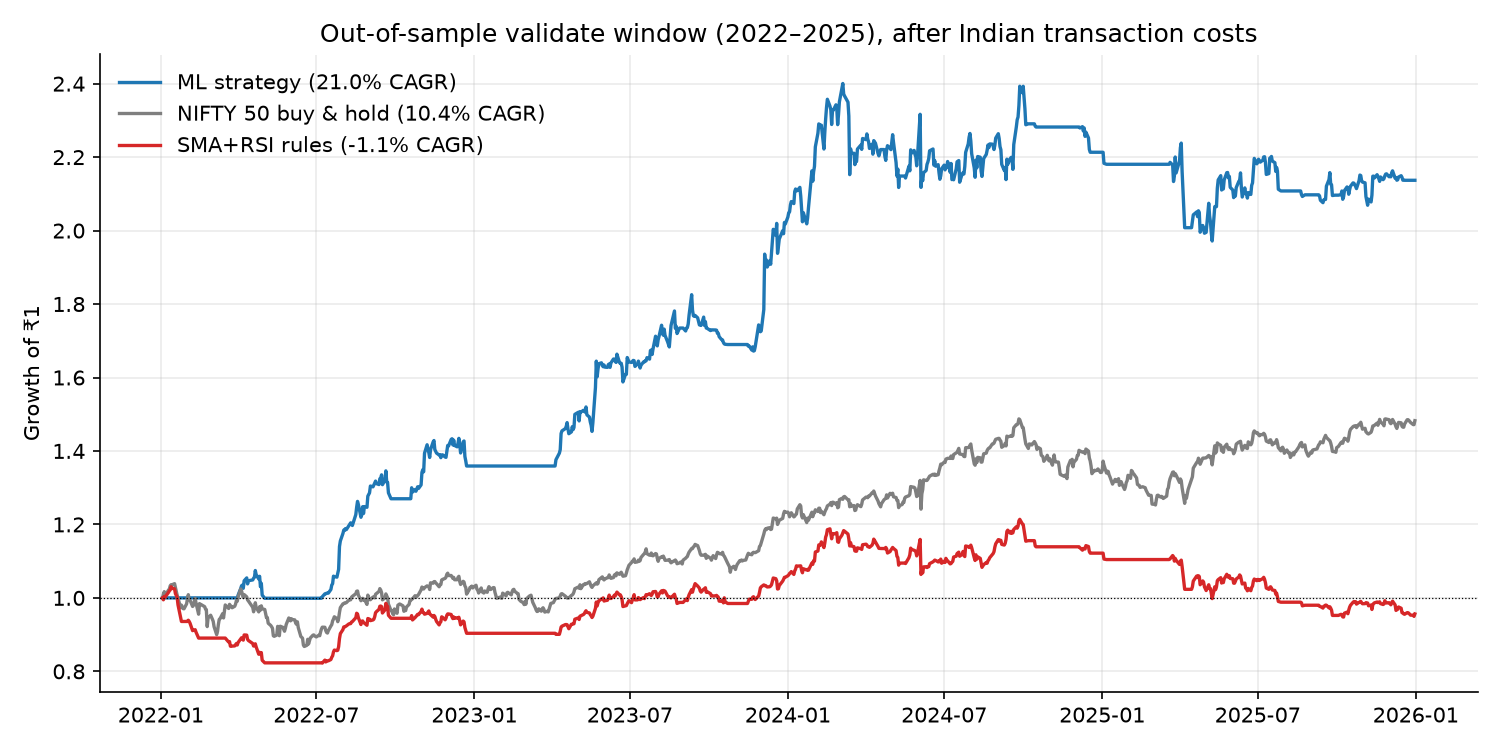
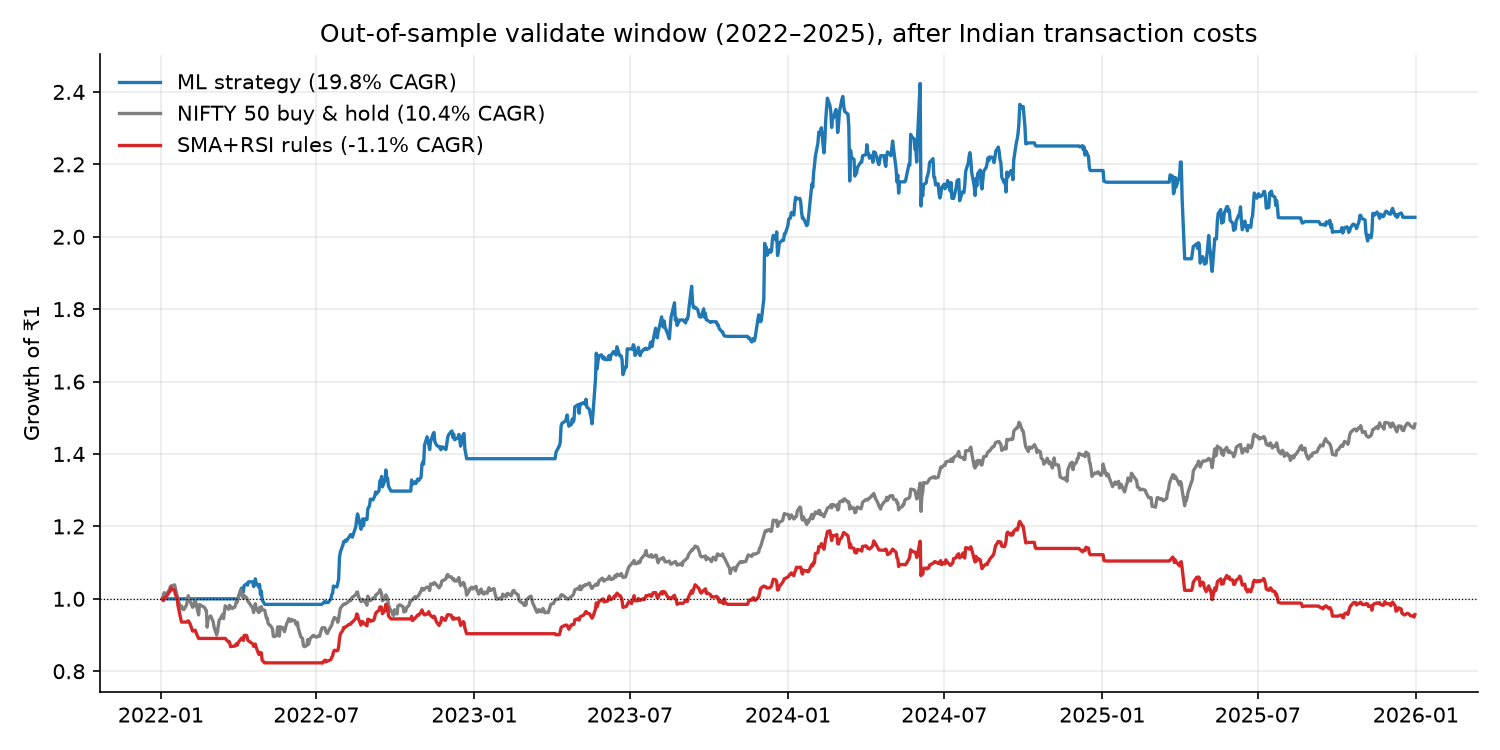
Purge label-horizon overlap from training windows and re-score
The 10-calendar-day embargo was shorter than the 20-trading-day label
(~28 calendar days), so training labels reached into the eval window, and
walk_forward_split cut the gap from the start of validate instead of the
end of tune. Add embargo_for(horizon), purge the training side, add leak
regression tests, retrain, and update README/RESULTS with the corrected
validate numbers (CAGR 20.95% -> 19.76%, lift@0.6 1.64x -> 1.56x).

diff --git a/ml/dataset.py b/ml/dataset.py
@@ -11,13 +11,17 @@ on data that overlaps the test period. Hence:
   data end).
 - Splits are TIME-BASED, never random. Random splits on time series leak:
   adjacent, near-identical rows land in both train and test → fake 90% acc.
-- An EMBARGO gap of `horizon` days is removed at every split boundary: the
-  label for a row on the last train day looks `horizon` days into the future,
-  i.e. straight into the test set. Without the gap the model is scored on
-  windows it partly saw the answer to.
+- An EMBARGO gap is PURGED from the end of every training window: the label
+  for a row on the last train day looks `horizon` TRADING days into the
+  future, i.e. straight into the test set. Without the gap the model is
+  scored on windows it partly saw the answer to. The gap is in calendar
+  days, so it must cover `horizon` trading days plus weekends and holidays
+  (see `embargo_for`).
 """
 
 from __future__ import annotations
+
+import math
 
 import pandas as pd
 
@@ -111,11 +115,20 @@ def build_panel(
     return panel.dropna(subset=feat_cols + ["y"])
 
 
+def embargo_for(horizon: int) -> int:
+    """Calendar-day embargo that safely covers a `horizon`-trading-day label.
+
+    5 trading days span 7 calendar days; +7 days of slack for market holidays
+    (e.g. 20 trading days → 35 calendar days).
+    """
+    return math.ceil(horizon * 7 / 5) + 7
+
+
 def time_split(
     panel: pd.DataFrame,
     test_start: str,
     *,
-    embargo_days: int = 10,
+    embargo_days: int = 35,
     test_end: str | None = None,
 ) -> tuple[pd.DataFrame, pd.DataFrame]:
     """Train strictly before (test_start - embargo); test in [test_start, test_end].
@@ -136,18 +149,22 @@ def walk_forward_split(
     *,
     tune_end: str = "2021-12-31",
     validate_end: str = "2025-12-31",
-    embargo_days: int = 10,
+    embargo_days: int = 35,
 ) -> tuple[pd.DataFrame, pd.DataFrame, pd.DataFrame]:
-    """Split a panel into (tune, validate, holdout) with embargo gaps.
+    """Split a panel into (tune, validate, holdout), purging label overlap.
 
-    tune     ..            <= tune_end
-    validate (tune_end + embargo) .. validate_end
-    holdout  (validate_end + embargo) ..
+    tune     ..  (tune_end - embargo)
+    validate (tune_end, validate_end - embargo]
+    holdout  (validate_end, ..
+
+    The embargo is cut from the END of each window, not the start of the next:
+    the evaluation windows keep their full calendar (the backtest on validate
+    starts on its first trading day), and no row's label reaches the next one.
     """
     emb = pd.Timedelta(days=embargo_days)
     t_end = pd.Timestamp(tune_end)
     v_end = pd.Timestamp(validate_end)
-    tune = panel[panel.index <= t_end]
-    validate = panel[(panel.index > t_end + emb) & (panel.index <= v_end)]
-    holdout = panel[panel.index > v_end + emb]
+    tune = panel[panel.index <= t_end - emb]
+    validate = panel[(panel.index > t_end) & (panel.index <= v_end - emb)]
+    holdout = panel[panel.index > v_end]
     return tune, validate, holdout

diff --git a/ml/experiment.py b/ml/experiment.py
@@ -3,7 +3,8 @@
 Discipline this enforces:
   * Iterate on the TUNE window only (2015-2021). Inside it we sub-split:
         train  <= tune_train_end (default 2019-12-31)
-        eval   2020-01-01 .. 2021-12-31        (with a 10d embargo gap)
+        eval   2020-01-01 .. 2021-12-31        (train purged by an embargo
+                                               that covers the label horizon)
     Every idea is judged here.
   * VALIDATE (2022-2025) is touched with `--final` ONLY, once an idea is
     locked. It is not a tuning surface.
@@ -78,7 +79,9 @@ def main() -> None:
     p.add_argument("--horizon", type=int, default=10)
     p.add_argument("--threshold", type=float, default=0.02)
     p.add_argument("--tune-train-end", default="2019-12-31")
-    p.add_argument("--embargo", type=int, default=10)
+    p.add_argument("--embargo", type=int, default=None,
+                   help="calendar days purged before each eval window "
+                        "(default: dataset.embargo_for(horizon))")
     p.add_argument("--final", action="store_true",
                    help="score on the validate window (2022-2025) instead of tune-internal")
     p.add_argument("--recency-weight", action="store_true",
@@ -86,6 +89,8 @@ def main() -> None:
     p.add_argument("--save", help="pickle the last trained model here")
     args = p.parse_args()
 
+    if args.embargo is None:
+        args.embargo = dataset.embargo_for(args.horizon)
     panel = _load_panel(args.horizon, args.threshold)
     n_feat = len(models._feat_cols(panel))
 
@@ -107,7 +112,8 @@ def main() -> None:
         sw = 0.5 ** (age_days / 504)  # ~2-year half-life
 
     print(f"scope: {scope}   train={len(train_p):,}  eval={len(eval_p):,}  "
-          f"n_feat={n_feat}  horizon={args.horizon}  thr={args.threshold}")
+          f"n_feat={n_feat}  horizon={args.horizon}  thr={args.threshold}  "
+          f"embargo={args.embargo}d")
     when = datetime.now().strftime("%m-%d %H:%M")
     rows, last_model = [], None
     for name in args.models:

diff --git a/tests/test_dataset.py b/tests/test_dataset.py
@@ -1,6 +1,7 @@
 """ML dataset: labels look forward, splits never overlap, embargo is respected."""
 
 import pandas as pd
+import pytest
 
 from data_engineering.features import build_features
 from ml import dataset
@@ -24,10 +25,34 @@ def _panel():
 
 
 def test_walk_forward_split_is_disjoint_and_ordered():
-    tune, val, hold = dataset.walk_forward_split(_panel(), embargo_days=10)
+    tune, val, hold = dataset.walk_forward_split(_panel(), embargo_days=35)
     assert tune.index.max() < val.index.min() < val.index.max() < hold.index.min()
-    assert (val.index.min() - tune.index.max()).days > 10
-    assert (hold.index.min() - val.index.max()).days > 10
+    # evaluation windows keep their first trading day; the gap is cut from training
+    assert val.index.min() == pd.Timestamp("2022-01-03")
+    assert hold.index.min() == pd.Timestamp("2026-01-01")
+
+
+def _label_end(dates: pd.DatetimeIndex, calendar: pd.DatetimeIndex, h: int) -> pd.Timestamp:
+    """Date the label of the LAST row in `dates` looks at (h trading days later)."""
+    pos = calendar.get_loc(dates.max())
+    return calendar[pos + h]
+
+
+@pytest.mark.parametrize("h", [5, 10, 20, 40])
+def test_no_training_label_reaches_eval_window(h):
+    panel = _panel()
+    emb = dataset.embargo_for(h)
+    tune, val, _ = dataset.walk_forward_split(panel, embargo_days=emb)
+    assert _label_end(tune.index, panel.index, h) < val.index.min()
+    train, test = dataset.time_split(panel, "2020-01-01", embargo_days=emb)
+    assert _label_end(train.index, panel.index, h) < test.index.min()
+
+
+def test_old_10_day_embargo_leaked_for_20_day_labels():
+    """Documents the bug the horizon-aware embargo fixed."""
+    panel = _panel()
+    tune, val, _ = dataset.walk_forward_split(panel, embargo_days=10)
+    assert _label_end(tune.index, panel.index, 20) >= val.index.min()
 
 
 def test_time_split_embargo():

diff --git a/ml/train.py b/ml/train.py
@@ -40,7 +40,9 @@ def main() -> None:
         raise SystemExit(f"no feature files in {feat_dir}")
 
     panel = dataset.build_panel(data, args.horizon, args.threshold)
-    train_p, test_p = dataset.time_split(panel, args.test_start)
+    train_p, test_p = dataset.time_split(
+        panel, args.test_start, embargo_days=dataset.embargo_for(args.horizon),
+    )
     print(f"train rows: {len(train_p)}  test rows: {len(test_p)}")
 
     model = models.train(train_p, args.model)

diff --git a/ml/RESULTS.md b/ml/RESULTS.md
@@ -14,7 +14,8 @@ adjusted. Walk-forward windows (`data/frozen/MANIFEST.json`):
 | validate | 2022–2025 | touched once, at the end |
 | holdout | 2026+ | **never looked at** — still untouched |
 
-Every split boundary has a 10-day embargo gap (labels look 10–20 days ahead).
+Every training window is purged of its last `embargo_for(horizon)` calendar days
+(35 days for the 20-trading-day label), so no training label reaches the next window.
 
 ### What moved the needle
 
@@ -24,6 +25,7 @@ Every split boundary has a 10-day embargo gap (labels look 10–20 days ahead).
 | **+17 features** (multi-horizon momentum, 52w-high dist, vol regime, RSI-2, Bollinger pos, volume z, market-relative excess return, regime flag) | logistic becomes the strongest, most stable model |
 | **RobustScaler + ±5σ winsorize** (fat-tailed return features) | logistic precision@0.6 0.46 → 0.54 tune-internal |
 | **embargo gap at split boundary** | removes look-ahead leak that flattered earlier scores |
+| **embargo ≥ label horizon, purged from the training side** (2026-10-06 fix; was a 10-day gap vs a ~28-calendar-day label) | validate lift@0.6 1.64 → 1.56, CAGR 20.95% → 19.76%, max DD −17.9% → −21.4%: the edge is real but was slightly flattered |
 | **label = fwd 20-day return > 5%** (vs 10-day > 2%) | sharper edge: validate lift@0.6 1.30 → 1.64 |
 | dropped `ret_20d_rank` (cross-sectional, unavailable to the live 1-stock-at-a-time backtester) | train/live inputs now identical; edge unchanged |
 | hist_gbm / random_forest / soft ensemble | all tried, all overfit the pre-2020 window vs logistic — **logistic chosen** |
@@ -32,10 +34,11 @@ Every split boundary has a 10-day embargo gap (labels look 10–20 days ahead).
 
 `logistic` (RobustScaler → ±5σ clip → LogisticRegression C=0.5, class_weight
 balanced), label = P(forward 20-day return > 5%), 25 features.
-Artifact: `ml/artifacts/model.pkl` (trained on tune ≤ 2021).
+Artifact: `ml/artifacts/model.pkl` (trained on tune ≤ 2021, last 35 days purged).
 
-**Validate (2022–2025), scored once:** base rate 0.278 →
-**precision@0.6 = 0.456 (1.64× lift)**, precision@0.7 = 0.596 (2.1× lift).
+**Validate (2022–2025), scored once:** base rate 0.280 →
+**precision@0.6 = 0.436 (1.56× lift)**, precision@0.7 = 0.543 (1.94× lift).
+(Before the 2026-10-06 embargo fix: 0.456 / 1.64× and 0.596 — kept in the auto-log below.)
 
 ### Cost-aware backtest
 
@@ -45,19 +48,28 @@ Winner: `min_proba 0.50`, `exit_proba 0.45`, `max_positions 4` (concentration
 matters — the model's ranking is good but it fires rarely, so cash drag is the
 enemy).
 
-**Validate 2022–2025, locked params:**
+**Validate 2022–2025, locked params** (after the embargo fix; the sweep was re-run
+with the purged ≤2019 model and its ranking didn't change, so params stayed put):
 
 | | ML strategy | NIFTY buy&hold | sma_rsi (rule-based) |
 |---|---|---|---|
-| total return | **+113.7%** | +48.2% | −4.4% |
-| CAGR | **20.95%** | 10.37% | −1.11% |
-| Sharpe | 0.84 | — | −0.58 |
-| max drawdown | −17.9% | −16.5% | −21.9% |
-| trades | 115 | — | 964 |
-| win rate / profit factor | 49% / 2.28 | — | 34% / 0.96 |
+| total return | **+105.4%** | +48.2% | −4.4% |
+| CAGR | **19.76%** | 10.37% | −1.11% |
+| Sharpe | 0.75 | — | −0.58 |
+| max drawdown | −21.4% | −16.5% | −21.9% |
+| trades | 113 | — | 964 |
+| win rate / profit factor | 49% / 2.17 | — | 34% / 0.96 |
 
-The edge translates: ~2× the benchmark CAGR at comparable drawdown, ~29
-trades/year (genuine swing cadence). Winners are ~2.3× the size of losers.
+Pre-fix numbers for the record: +113.7%, 20.95% CAGR, Sharpe 0.84, max DD −17.9%,
+115 trades, PF 2.28.
+
+The edge translates: ~1.9× the benchmark CAGR, ~28 trades/year (genuine swing
+cadence), winners ~2.2× the size of losers. Drawdown is deeper than the index's.
+
+**On the param choice:** in the 2020–21 sweep, min_proba 0.60 / 4 positions has the
+highest Sharpe (2.39 vs 2.29), both before and after the fix. 0.50 was kept as the
+centre of a flat plateau with more signals; choosing again after seeing validate
+would turn validate into a tuning surface.
 
 ### Honest caveats
 
@@ -109,3 +121,5 @@ python -m ml.backtest_ml --split validate --min-proba 0.50 --max-positions 4
 | 09-04 11:22 | validate 22-25 | logistic | 20 | 0.05 | 25 | 0.278 | 0.456 | 1.637 | 597 | 0.596 | 0.355 | 1.276 |
 | 09-04 11:22 | validate 22-25 | ensemble | 20 | 0.05 | 25 | 0.278 | 0.500 | 1.797 | 326 | 0.387 | 0.344 | 1.235 |
 | 09-04 11:28 | validate 22-25 | logistic | 20 | 0.05 | 25 | 0.278 | 0.456 | 1.637 | 597 | 0.596 | 0.355 | 1.276 |
+| 10-06 00:20 | tune-internal 20-21 | logistic | 20 | 0.05 | 25 | 0.383 | 0.516 | 1.347 | 5302 | 0.575 | 0.570 | 1.488 |
+| 10-06 00:20 | validate 22-25 | logistic | 20 | 0.05 | 25 | 0.280 | 0.436 | 1.558 | 574 | 0.543 | 0.354 | 1.267 |

diff --git a/README.md b/README.md
@@ -14,14 +14,16 @@ An end-to-end swing-trading system for Indian equities (NIFTY 50). It covers a d
 
 | | ML strategy | NIFTY 50 buy & hold | SMA + RSI rules |
 |---|---|---|---|
-| Total return | **+113.7%** | +48.2% | −4.4% |
-| CAGR | **20.9%** | 10.4% | −1.1% |
-| Sharpe | 0.84 | — | −0.58 |
-| Max drawdown | −17.9% | −16.5% | −21.9% |
-| Trades | 115 | — | 964 |
-| Win rate / profit factor | 49% / 2.28 | — | 34% / 0.96 |
+| Total return | **+105.4%** | +48.2% | −4.4% |
+| CAGR | **19.8%** | 10.4% | −1.1% |
+| Sharpe | 0.75 | — | −0.58 |
+| Max drawdown | −21.4% | −16.5% | −21.9% |
+| Trades | 113 | — | 964 |
+| Win rate / profit factor | 49% / 2.17 | — | 34% / 0.96 |
 
-The model is a logistic regression over 25 scale-free technical features. It predicts **P(forward 20-day return > 5%)** and was trained on 2015–2021 only. Strategy parameters were tuned on 2020–21 using a model trained on data up to 2019, and the 2022–25 window was scored once. On that window, precision at a 0.6 probability threshold is **0.456 vs a 0.278 base rate (1.64× lift)**.
+The model is a logistic regression over 25 scale-free technical features. It predicts **P(forward 20-day return > 5%)** and was trained on 2015–2021 only, with the last 35 days purged so no training label reaches 2022. Strategy parameters were tuned on 2020–21 using a model trained on data up to 2019, and the 2022–25 window was scored once. On that window, precision at a 0.6 probability threshold is **0.436 vs a 0.280 base rate (1.56× lift)**.
+
+> **Leak found and fixed:** the first version used a 10-day embargo even though the label looks 20 *trading* days (about 28 calendar days) ahead, so the training data saw a few weeks of the test period. Fixing it (`ml/dataset.py::embargo_for`, plus regression tests) cut CAGR from 20.9% to 19.8% and the lift from 1.64× to 1.56×. The edge survived, but it had been slightly inflated.
 
 Full iteration log, including what was tried and rejected: [`ml/RESULTS.md`](ml/RESULTS.md).
 
@@ -39,7 +41,7 @@ Full iteration log, including what was tried and rejected: [`ml/RESULTS.md`](ml/
 
 1. **No look-ahead.** Features at *t* use data ≤ *t*, and orders fill at *t+1* open. Tests check both.
 2. **Costs are real.** A strategy that wins only before costs doesn't count.
-3. **Time-based ML splits only,** with an embargo at each boundary. No random shuffling of time series.
+3. **Time-based ML splits only.** The end of each training window is purged by an embargo that covers the label horizon. No random shuffling of time series.
 4. **The holdout (2026+) stays untouched** until the final evaluation.
 
 ## Tech stack
@@ -109,7 +111,7 @@ docs/                implementation plan, README chart
 - **Survivorship bias:** the universe is *today's* NIFTY 50 projected backwards, which overstates historical returns.
 - **48 of 50 stocks:** TATAMOTORS and LTIM return 404 errors on Yahoo.
 - **One validation window and one market regime.** There's no rolling multi-fold walk-forward yet. Most of the ML strategy's gains came in 2022 to early 2024, and it was roughly flat after that (see chart).
-- **Embargo is shorter than the label horizon:** the 10-calendar-day embargo is less than the 20-trading-day label horizon (about 28 calendar days), so a few weeks of labels at each split boundary overlap the next window.
+- **Deeper drawdown than the index** on validate (−21.4% vs −16.5%), from holding just 4 concentrated positions.
 - **Over the full 2012–2026 period**, the rule-based SMA+RSI strategy returns 7.8% CAGR against NIFTY's 11.6%. It's kept as a baseline, not as a strategy worth trading.
 - **Slippage** is a flat 5 bps: reasonable for large caps, optimistic in fast markets.
 
